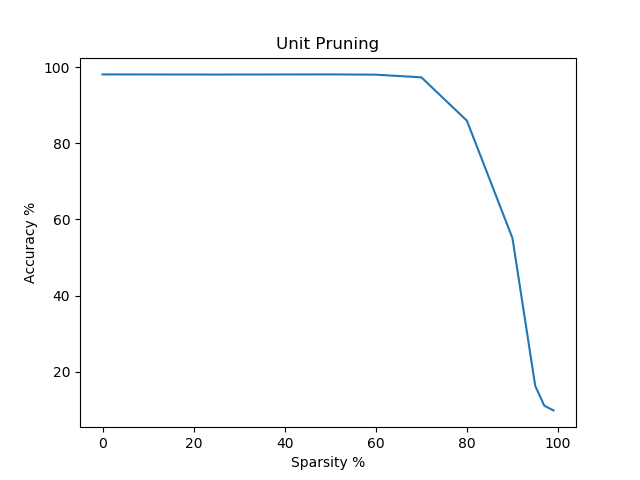
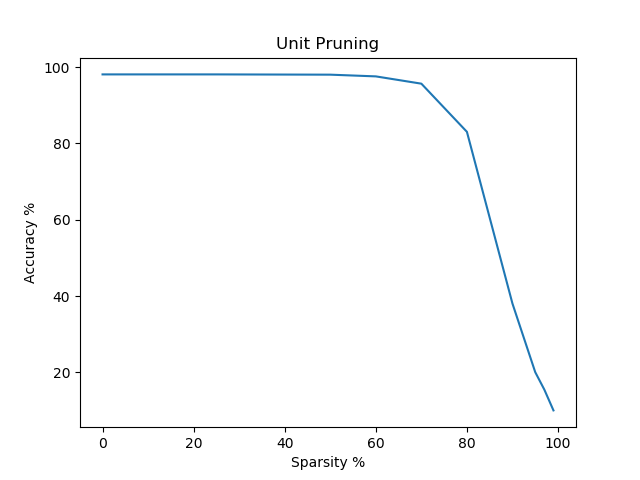
Added Comments

diff --git a/pruning.py b/pruning.py
@@ -6,20 +6,20 @@ def weight_prune(weight, k):
 	weight_temp = weight
 	weight_temp = np.absolute(weight_temp)
 	weight_temp = np.sort(weight_temp, axis = None)
-	threshold = weight_temp[int(k*weight_temp.size)]
-	weight[(weight < threshold) & (weight > -threshold)] = 0
+	threshold = weight_temp[int(k*weight_temp.size)] #Finding the threshold weight
+	weight[(weight < threshold) & (weight > -threshold)] = 0 #Setting the lowest k% weights to 0
 	b = []
 	b.append(weight)
 	return b
 
 def unit_prune(weight, k):
-	weight_temp = np.linalg.norm(weight, axis=0)
+	weight_temp = np.linalg.norm(weight, axis=0) #Finding norm of each column
 	sorted = np.sort(weight_temp)
-	threshold = sorted[int(k*sorted.size)]
+	threshold = sorted[int(k*sorted.size)] #Finding threshold norm
 	j=0
 	for i in weight_temp:
 		if(i<threshold):
-			weight[:, j] = 0
+			weight[:, j] = 0 #set jth column in weight matrix to 0 because it's norm is less than that of threshold
 		j=j+1
 	b = []
 	b.append(weight)
@@ -28,7 +28,7 @@ def unit_prune(weight, k):
 input = tf.keras.datasets.mnist
 
 (x_train, y_train),(x_test, y_test) = input.load_data()
-x_train, x_test = x_train / 255.0, x_test / 255.0
+x_train, x_test = x_train/255.0, x_test/255.0
 
 model = tf.keras.models.Sequential([
   tf.keras.layers.Flatten(input_shape=(28, 28)),
@@ -50,6 +50,7 @@ print(model.summary())
 
 model.load_weights('pre_trained.h5')
 
+#Weight Pruning
 results = []
 x=[]
 y=[]
@@ -57,14 +58,14 @@ per = [0, 25, 50, 60, 70, 80, 90, 95, 97, 99]
 
 for k2 in per:
 	k = k2*0.01
-	for i in range(2,5):
+	for i in range(1,5):
 		weight = model.layers[i].get_weights()[0]
 		model.layers[i].set_weights(weight_prune(weight, k))
 	score, acc = model.evaluate(x_test, y_test)
 	results.append("k = " + str(k) + " accuracy = " + str(acc))
 	x.append(k*100)
 	y.append(acc*100)
-	model.load_weights('pre_trained.h5')
+	model.load_weights('pre_trained.h5') #Reloading weights
 
 for result in results:
 	print(result)
@@ -75,6 +76,7 @@ plt.ylabel('Accuracy %')
 plt.title('Weight Pruning')
 plt.show()
 
+#Unit Pruning
 model.load_weights('pre_trained.h5')
 
 results = []
@@ -84,7 +86,7 @@ per = [0, 25, 50, 60, 70, 80, 90, 95, 97, 99]
 
 for k2 in per:
 	k = k2*0.01
-	for i in range(2,5):
+	for i in range(1,5):
 		weight = model.layers[i].get_weights()[0]
 		model.layers[i].set_weights(unit_prune(weight, k))
 	score, acc = model.evaluate(x_test, y_test)
